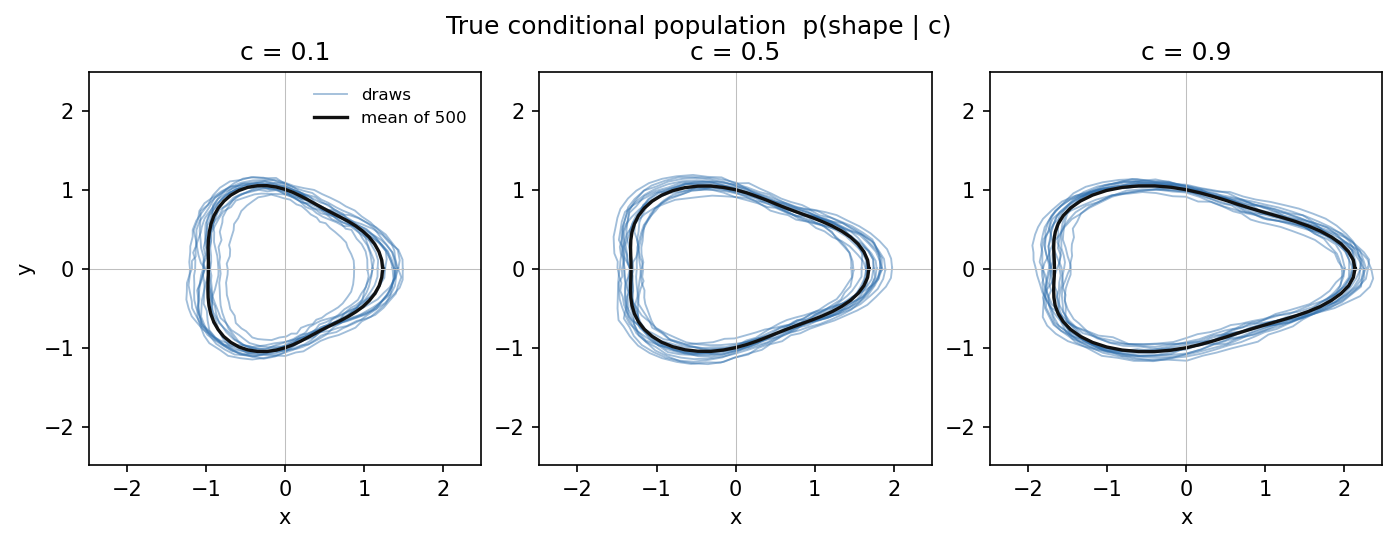
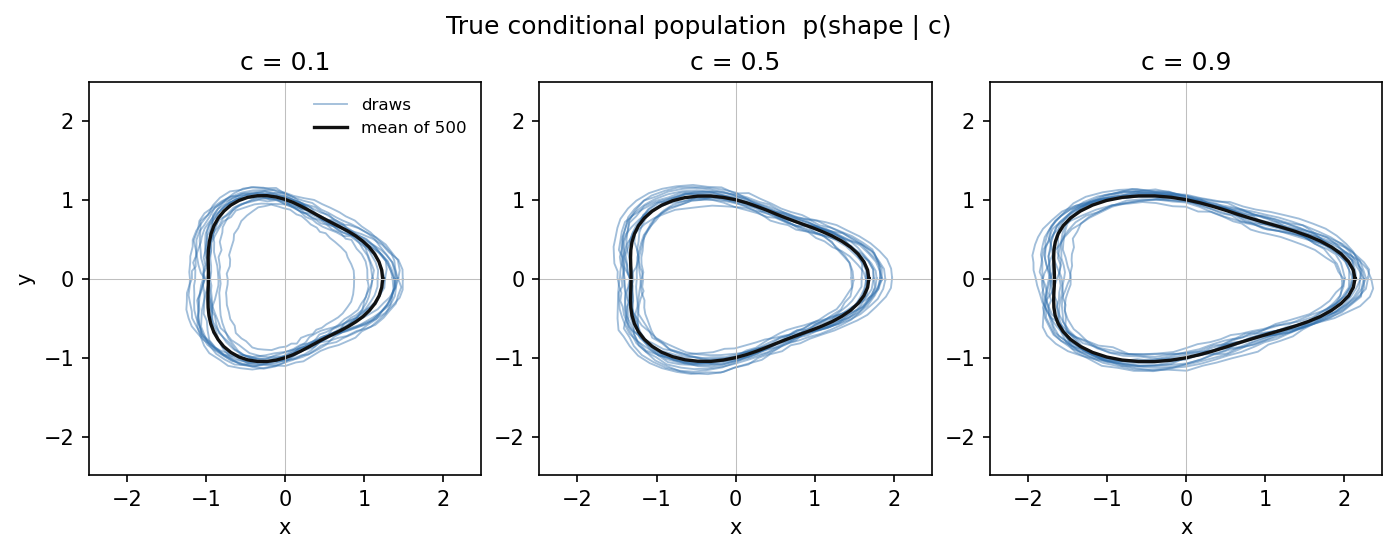
fix README ranges, remove unused dependency, use python -m pytest

diff --git a/src/cgg/data.py b/src/cgg/data.py
@@ -315,7 +315,7 @@ def plot_conditional_samples(
         axis.axvline(0.0, color="0.75", linewidth=0.5)
     axes[0].set_ylabel("y")
     axes[0].legend(loc="upper right", frameon=False, fontsize=8)
-    fig.suptitle("True conditional population  p(shape | c)", y=1.02)
+    fig.suptitle("True conditional population  p(shape | c)", y=1.04)
     path = Path(path)
     path.parent.mkdir(parents=True, exist_ok=True)
     fig.savefig(path, dpi=150, bbox_inches="tight")

diff --git a/README.md b/README.md
@@ -1,6 +1,6 @@
 # Conformal geometry generators
 
-Uncertainty here is a property of the learned population p(shape | c), not a property of one reconstructed mesh. The data are synthetic closed contours in the plane whose conditional law is known, so a generated population can be compared with the truth, and a prediction set can be checked against that same truth.
+Uncertainty here is a property of the population a generator produces, p(shape | c), not a property of one reconstructed mesh. The data are synthetic closed contours in the plane whose conditional law is known, so a generated population can be compared with the truth, and a prediction set can be checked against that same truth.
 
 ## Repository
 
@@ -128,11 +128,7 @@ Sampling z from the fitted aggregate posterior, instead of from N(0, I), produce
 | 0.90 | 0.048 | 148.9 | 0.907 | 1362.5 | 0.930 | 78.5 |
 | 0.95 | 0.065 | 155.4 | 0.967 | 1825.1 | 0.953 | 80.9 |
 
-The median ensemble score is 542 on the test split. The chi-square thresholds sit near 127–155, so almost every real shape falls outside the naive set. All four naive coverages are outside nominal ± 3 percentage points. The ensemble covariance is the reason: its calibration trace median is 0.037, against an oracle trace median of 0.774, and the noise floor only moves the ensemble trace to 0.050.
-
-Split conformal raises the threshold to the calibration order statistic. Its four marginal coverages, 0.498, 0.683, 0.907, and 0.967, are inside nominal ± 3 percentage points.
-
-The oracle at nominal 0.90 covers 558 of 600 test shapes, coverage 0.930, a gap of 0.030. That is the boundary of the ±3 percentage point band, not past it. The other three oracle levels are inside the band. The median oracle score is 65.9, well below the mean of a chi-square random variable with 128 degrees of freedom, which is 128. The true conditional is a 4-factor contour plus small noise, and the Gaussian with its covariance is a blunt summary of that law. Conformal still uses exchangeable scores, so the marginal guarantee does not need the Gaussian to be right.
+Marginal test coverage, read from `results/conformal.json`, is the `test_coverage` of each method. Naive chi-square covers 0.020, 0.027, 0.048, and 0.065 at nominal 0.50, 0.70, 0.90, and 0.95. Split conformal covers 0.498, 0.683, 0.907, and 0.967. The oracle covers 0.512, 0.703, 0.930, and 0.953. Split conformal is within ±3 percentage points of nominal at every alpha. All four naive coverages are outside that band.
 
 ![Nominal versus empirical coverage](results/figures/calibration_curve.png)
 
@@ -146,9 +142,7 @@ Conditional coverage uses five equal-width bins of c. Counts are 121, 117, 115, 
 | [0.6, 0.8) | 0.455 | 0.616 | 0.875 | 0.964 |
 | [0.8, 1.0) | 0.311 | 0.548 | 0.830 | 0.933 |
 
-Coverage falls as c increases. At nominal 0.50 the outer bins are 0.694 and 0.311. At nominal 0.90 they are 0.975 and 0.830. Most of these bins are outside nominal ± 3 percentage points. The true trace in `results/uncertainty.json` rises from 0.591 at c = 0 to 1.002 at c = 1, while the ensemble trace stays near 0.03–0.04. One threshold fit on the mixture of all c overcovers the tight condition and undercovers the wide one. The finite-sample guarantee is marginal over the calibration and test draws, not conditional on c.
-
-Every naive bin is below 0.11, so all of them are outside the band. The oracle's bin coverage stays near the nominal line. Seven of its twenty bin comparisons still leave the ±3 percentage point band; the largest is 0.957 against nominal 0.90 in c ∈ [0.4, 0.6). Those gaps are a few points on about 120 shapes, not the monotone swing of the ensemble scores.
+Split conformal reaches nominal marginal coverage within ±3 percentage points, and its coverage conditional on c is not uniform. At α = 0.5 the five bins are 0.694, 0.538, 0.513, 0.455, and 0.311, from the lowest c bin to the highest. At α = 0.1 they are 0.975, 0.949, 0.913, 0.875, and 0.830. The highest bin is the worst at every alpha in this table. The oracle stays close to nominal in every bin: 0.488–0.538 at nominal 0.50, 0.650–0.752 at 0.70, 0.897–0.957 at 0.90, and 0.923–0.982 at 0.95. Marginal coverage hides that local miscalibration. The generator's conformal sets are worst at high c. These figures do not show that the model learned the population.
 
 ![Coverage by condition bin](results/figures/conditional_coverage.png)
 
@@ -156,7 +150,7 @@ Every naive bin is below 0.11, so all of them are outside the band. The oracle's
 
 Posterior collapse at β ≥ 0.3. In the Wasserstein sweep those four settings have validation KL from 0.002 to 0.077 and a prior trace at c = 0.5 from 0.014 to 0.069, against a true trace of 0.779. The retrained ensemble matches that regime: validation KL at most 0.077, and trace 0.029 against 0.757 at c = 0.5. The mean contour elongates with c. The samples sit on that contour.
 
-Prior hole at β ≤ 0.1. Validation KL jumps to between 3 and 19, and the prior trace at c = 0.5 is between 2.1 and 11.4. Mean elongation moves away from `1 + c`, especially at width 8. The diagnostics at β = 0.003 show why. The aggregate posterior on validation shapes has a coordinate mean of 2.92 and standard deviations near 0.4, so z ~ N(0, I) is not a draw from q(z). Prior samples are jagged and under-elongated. Draws from the fitted q(z) are smoother and closer in Wasserstein distance, and they are still too wide. The decoder does not turn either distribution into p(shape | c).
+Prior hole at β ≤ 0.1. Validation KL jumps to between 2.982 and 18.561, and the prior trace at c = 0.5 is between 2.1 and 11.4. Mean elongation moves away from `1 + c`, especially at width 8. The diagnostics at β = 0.003 show why. The aggregate posterior on validation shapes has a coordinate mean of 2.92 and standard deviations near 0.4, so z ~ N(0, I) is not a draw from q(z). Prior samples are jagged and under-elongated. Draws from the fitted q(z) are smoother and closer in Wasserstein distance, and they are still too wide. The decoder does not turn either distribution into p(shape | c).
 
 The trace sweep and the Wasserstein sweep pick opposite failures. Trace error prefers β = 0.003, which is too wide and has 2-Wasserstein distance 5.39. Mean Wasserstein distance prefers β = 0.3 and width 4, which matches the mean shape and has almost no spread. Neither grid point has both.
 
@@ -164,15 +158,15 @@ Generated populations of the selected ensemble are too tight. The figure of prio
 
 The accuracy scores and the conformal sets both use a single Gaussian in 128 dimensions. The oracle's median score of 66, against a chi-square mean of 128, says that summary is already a simplification of the true conditional.
 
-The ensemble has five members. Disagreement of their mean shapes has trace about 0.006, which is small next to the missing aleatoric spread.
+The ensemble has five members. Disagreement of their mean shapes has trace 0.0069 at the endpoints and 0.0060 at the centre, which is small next to the missing aleatoric spread.
 
-Split conformal on the ensemble meets the marginal coverage target within 3 percentage points at all four nominal levels, and it misses conditional coverage by a wide margin. That is the difference between a marginal guarantee and a conditional one. The oracle, whose covariance does track c, has a much flatter conditional curve, and a few of its bins still leave the ±3 percentage point band.
+Split conformal meets nominal marginal coverage within 3 percentage points, and coverage conditional on c is not uniform. At α = 0.5 it falls from 0.694 in the lowest bin to 0.311 in the highest; at α = 0.1 it falls from 0.975 to 0.830. The oracle stays close to nominal in every bin. Marginal coverage hides local miscalibration, and the generator is worst at high c. That is not evidence that the model learned the population.
 
 The data are synthetic 2D contours. Nothing here is a measurement on a clinical mesh.
 
 ## Future work
 
-Normalising flows and diffusion models, so the conditional population is not a decoder of a standard normal. A learned per-coordinate decoder variance, so the predictive covariance is not forced to be the pushforward of a collapsed latent code. Conditional conformal, aimed at coverage given c rather than coverage averaged over c. The same scores on 3D meshes, and then on real cardiac meshes.
+Normalising flows and diffusion models, so the conditional population is not a decoder of a standard normal. A learned per-coordinate decoder variance, so the predictive covariance is not forced to be the pushforward of a collapsed latent code. Conditional and Mondrian conformal, so the threshold can depend on c instead of one marginal quantile. The same scores on 3D meshes, and then on real cardiac meshes.
 
 ## Note
 
